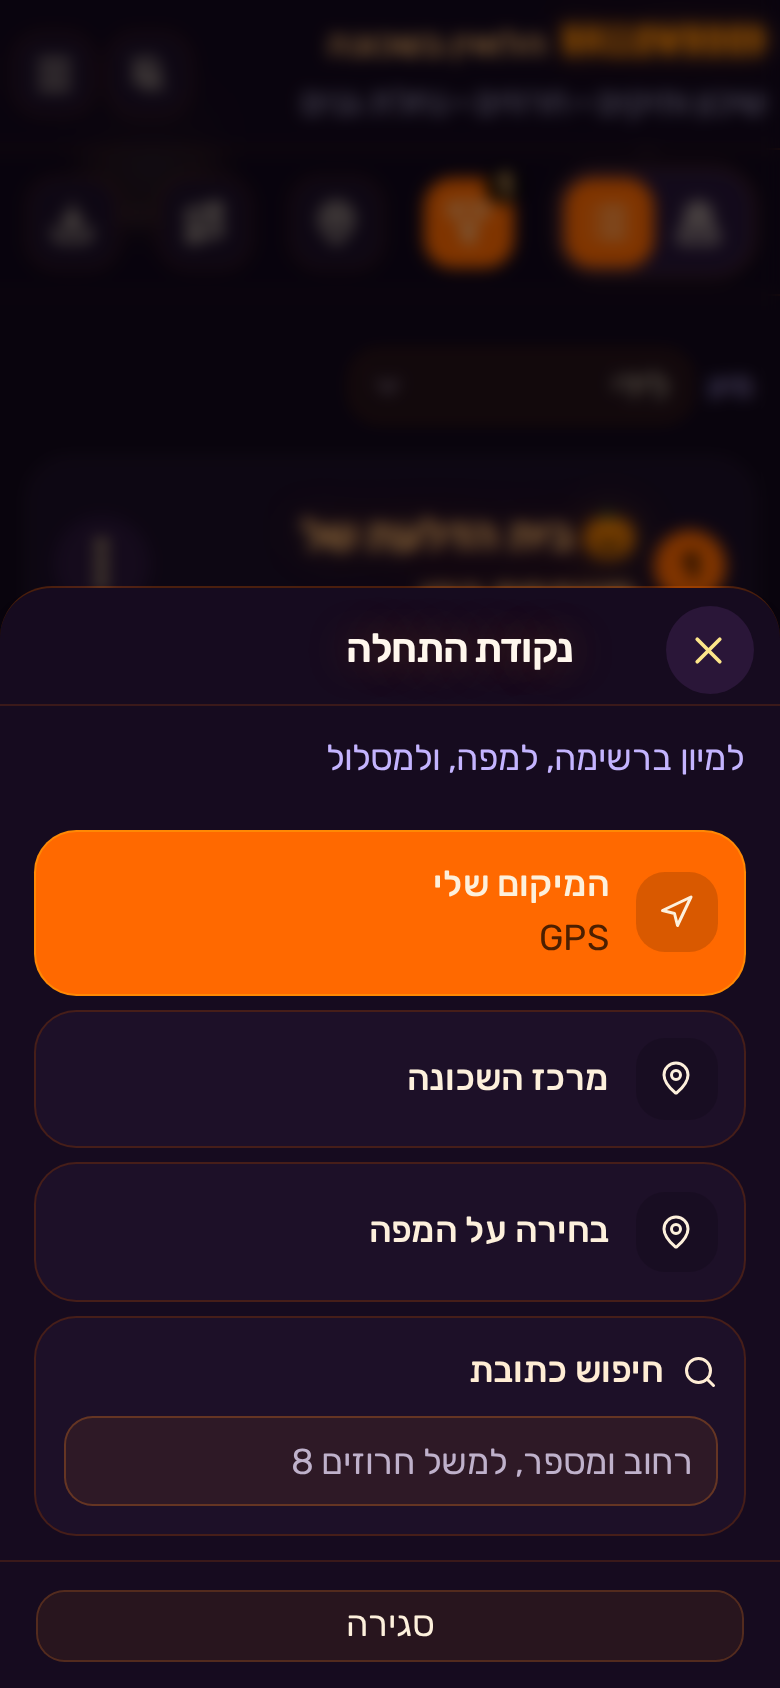
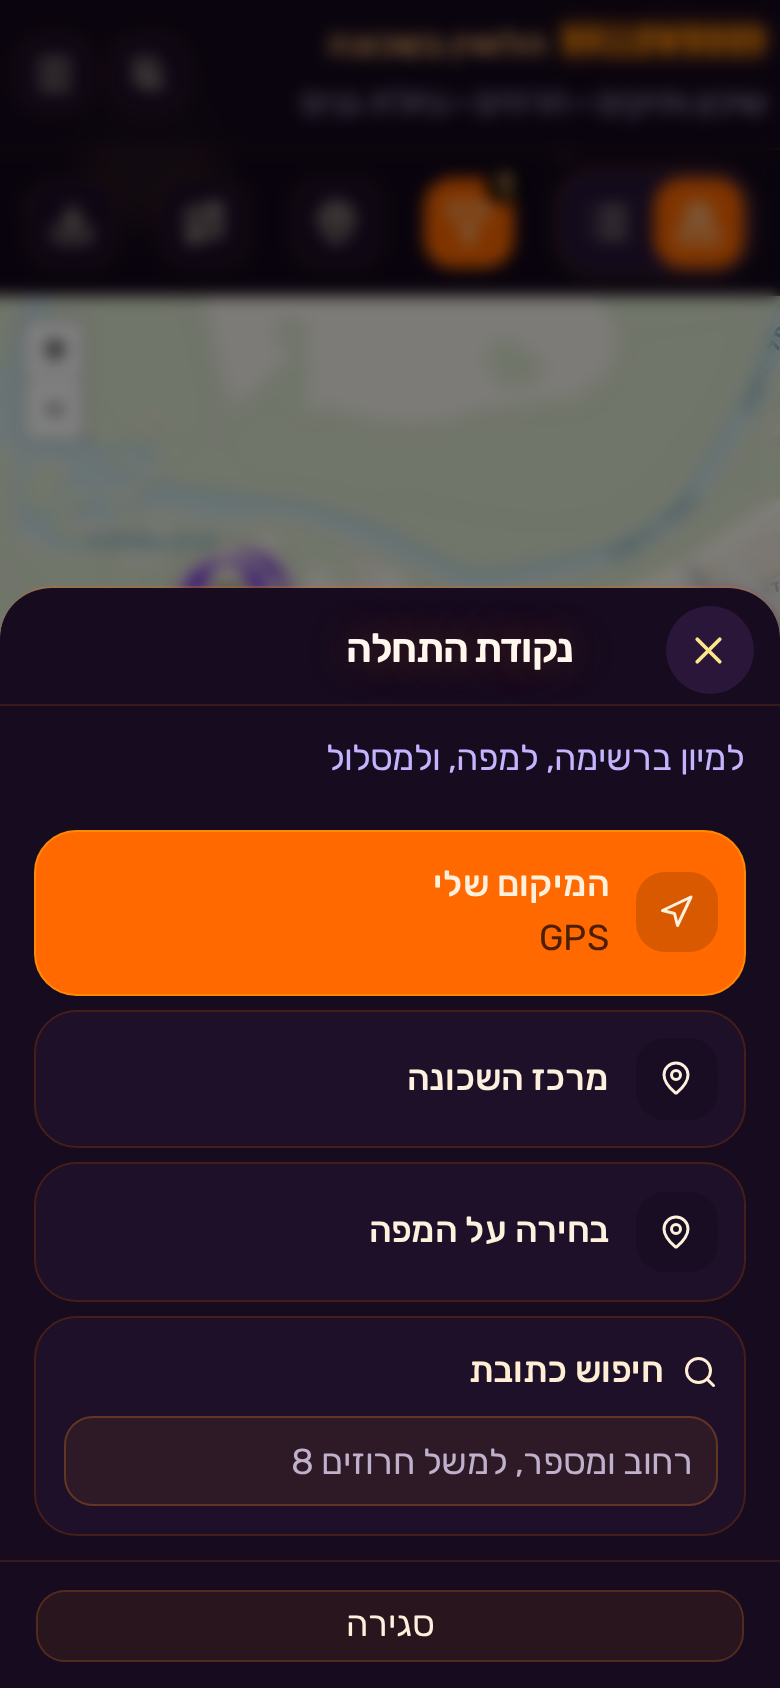
Fix during-route help step 2 screenshot (map with route line)
- Re-capture route-during-map on map view, not list
- Capture script forces map view after filter/list steps
- Step 4 uses list screenshot for change-origin (not origin picker)
- Bump help image cache v4

Changed region(s): [[0.0, 0.0924, 1.0, 0.3697]]

diff --git a/src/app/help/during-route/page.tsx b/src/app/help/during-route/page.tsx
@@ -53,8 +53,8 @@ const STEPS = [
         (כשהוא דולק) כדי לצאת ממצב מסלול.
       </>
     ),
-    image: helpImage("route-2-origin.png"),
-    imageAlt: "שינוי נקודת התחלה",
+    image: helpImage("route-during-exit.png"),
+    imageAlt: "שינוי נקודת התחלה ויציאה מהמסלול",
   },
 ] as const;
 

diff --git a/src/lib/help-images.ts b/src/lib/help-images.ts
@@ -1,5 +1,5 @@
 /** Real app screenshots (PNG) under /images/help — not /help/* (avoids App Router route clash). */
-const HELP_IMAGES_VERSION = "3";
+const HELP_IMAGES_VERSION = "4";
 
 export function helpImage(path: string) {
   const file = path.replace(/^\//, "");
